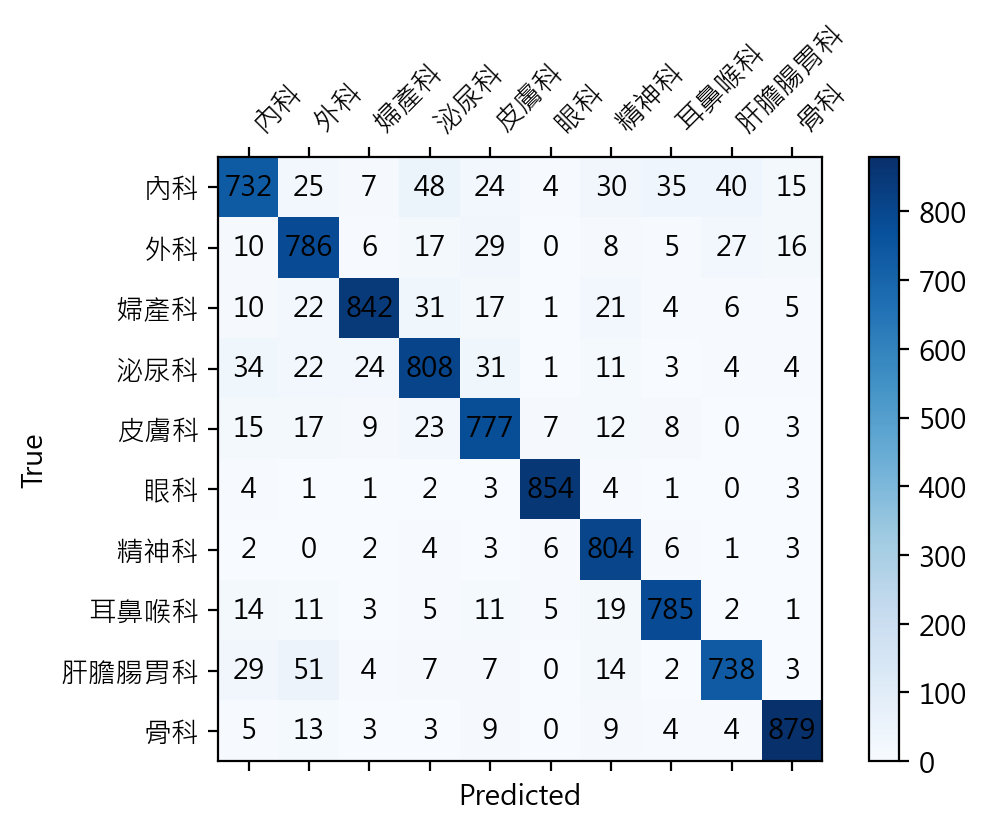
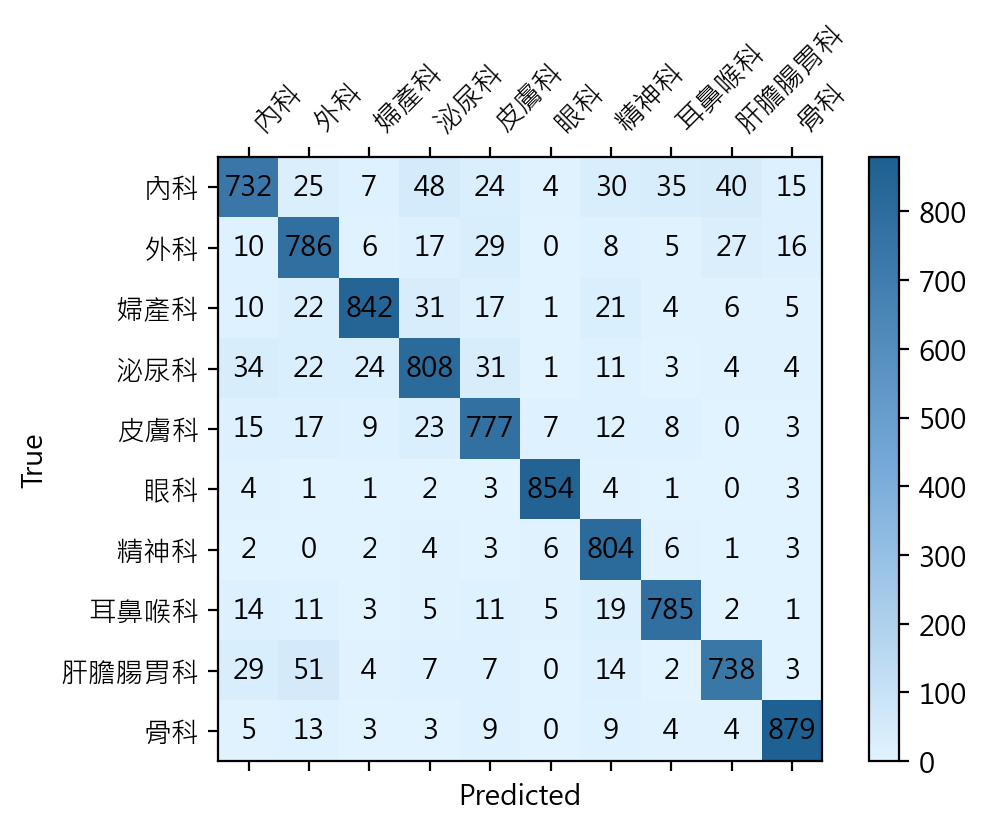
host

Changed region(s): [[0.213, 0.1805, 0.8519, 0.9326], [0.8824, 0.1805, 0.9128, 0.4813], [0.8824, 0.6919, 0.9128, 0.8724]]

diff --git a/modeling.py b/modeling.py
@@ -10,6 +10,7 @@ Runs in Python 3.12.4.
 import numpy as np
 import pandas as pd
 import matplotlib.pyplot as plt
+import matplotlib.colors as mcolors
 
 #%% read data
 # 
@@ -19,6 +20,10 @@ import matplotlib.pyplot as plt
 #%% read data
 content = pd.read_csv('data/content.csv', usecols=['科別', '問題主旨', '內文'])
 content['內文擴展'] = content['問題主旨'] + '\n' + content['內文']
+
+#%% 比較前人論文
+if False:
+    content = content[content['科別'].isin(['肝膽腸胃科', '耳鼻喉科', '泌尿科'])]
 
 #%% train and test
 from sklearn.model_selection import train_test_split
@@ -34,7 +39,7 @@ train, test = train_test_split(content, test_size=0.3, random_state=1, stratify=
 #%% Put train ans often question together
 def train_explode():
     '''
-    Put train ans often question together
+    Put train and often question together
 
     Returns
     -------
@@ -149,6 +154,7 @@ llda.summary()
 #%% diagnosis function
 from sklearn.metrics import confusion_matrix
 from sklearn.metrics import classification_report
+from sklearn.metrics import f1_score
 
 class diagnosis():
     def __init__(self, real, pred):
@@ -157,6 +163,7 @@ class diagnosis():
         
         self.name = sorted(set(self.real)) # the label names
         self.confusion_matrix() # confusion matrix
+        self.f1_score() # confusion matrix
         
     def classification_report(self):
         print(classification_report(self.real, self.pred))
@@ -164,10 +171,15 @@ class diagnosis():
     def confusion_matrix(self):
         self.cm = confusion_matrix(self.real, self.pred)
         
+    def f1_score(self):
+        f1 = f1_score(self.real, self.pred, average='macro')
+        print("F1-score:", f1)
+    
     def plt_cm(self, save_dir = None):
         '''
         Plot confusion matrix. 
         '''
+        
         plt.figure(figsize=(19.2, 10.8)) # set figure size
 
         plt.rc('font', family='Microsoft JhengHei') # set chinese font
@@ -176,7 +188,11 @@ class diagnosis():
         
         # confusion matrix set up
         fig, ax = plt.subplots()
-        cax = ax.matshow(self.cm, cmap='Blues')
+        cmap = mcolors.LinearSegmentedColormap.from_list("light_blues", ["#FFFFFF", "#1e6091"])
+        cax = ax.matshow(self.cm, cmap = cmap)
+        
+        # add a color bar
+        plt.colorbar(cax)
         
         # axe set up 
         ax.set_xlabel('Predicted')
@@ -193,9 +209,6 @@ class diagnosis():
         # add a value to each square
         for (i, j), value in np.ndenumerate(self.cm):
             ax.text(j, i, value, ha='center', va='center', color='black')
-        
-        # add a color bar
-        plt.colorbar(cax)
         
         # save figure
         if save_dir:
@@ -349,7 +362,7 @@ def mnb_test(text):
     
     print(df)
 
-#text = "心雜音"
+text = "心雜音"
 #mnb_test(text)
 
 #%% fasttext
@@ -481,3 +494,4 @@ plt.hist(similarity_matrix[content.index[index]], bins=20)
 for near in near_index[:5]:
     print("sim:", similarity_matrix[content.index[index]][near])
     print_doc(near)
+
